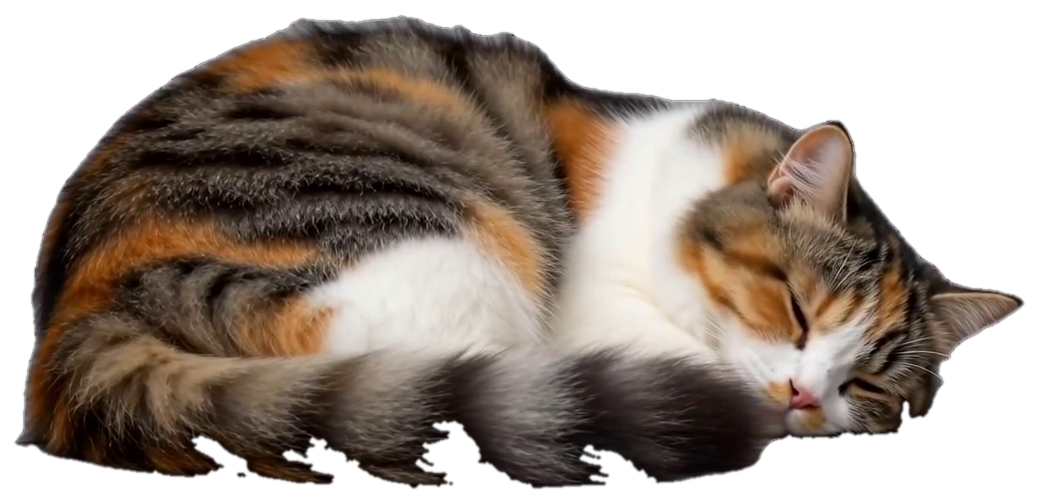
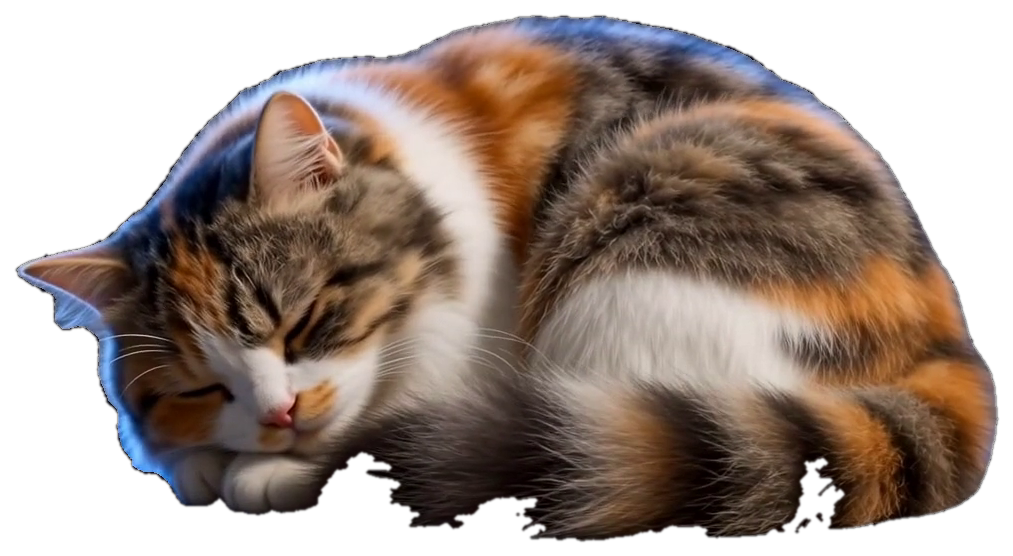
feat(about-cat): v6 stylized 3D calico with hover-play + scroll-scrub
New VP9+alpha clip rendered in the same designer-toy look as the hero
cat (chunky matte fur, cobalt rim light, warm key, navy shadows).

Behaviour: 3-phase state machine — armed (frozen off-screen) →
playing (rAF-driven auto walk-in, ~3.2 s) → scrub (scroll drives
currentTime). Intro uses easeInOutCubic; no native play() call so there
is no rate-pop when handing off to scrub. On touch/no-hover devices the
intro fires at 35% intersection. prefers-reduced-motion skips intro.

widthPct scaled down to 20 (was 26) to match about-section proportions.

diff --git a/components/AboutCat.tsx b/components/AboutCat.tsx
@@ -4,37 +4,41 @@ import { useEffect, useRef } from "react";
 import { asset } from "@/lib/asset";
 
 /**
- * AboutCat — transparent VP9+alpha cat overlay, scrubbed by the About section's scroll.
+ * AboutCat — transparent VP9+alpha cat overlay for the About section.
  *
- * Behaviour:
- *   • Not scrolling -> cat is FROZEN on its current frame (no autoplay, no loop).
- *   • Scroll DOWN   -> timeline advances: cat walks in from OFF-SCREEN left, yawns, curls asleep.
- *   • Scroll UP     -> timeline rewinds: cat wakes and walks back off-screen left.
+ * INTERACTION (state machine):
+ *   1. "armed"   — initial. Cat frozen on frame 0 (off-screen). Waiting for the pointer / in-view.
+ *   2. "playing" — the FIRST time the pointer enters the section (or it scrolls ~into view), the clip
+ *                  auto-advances ONCE to the end: cat walks in from the left, meows, curls up asleep.
+ *                  Driven by requestAnimationFrame (NOT native play) so it is perfectly smooth and
+ *                  consistent with the scrub phase — no playback-rate pop, no decoder stutter.
+ *   3. "scrub"   — after the intro reaches the asleep frame, scroll takes over: scrolling drives
+ *                  video.currentTime (scroll up = cat wakes & walks back). Frozen when idle.
  *
- * Assets (in public/video/, resolved through asset()):
- *   • cat-sleep.webm        — VP9+alpha, all-keyframe, hero-scale, off-screen entrance (v4).
- *   • cat-sleep-poster.png  — tight transparent crop, first paint.
+ * Assets (public/video/, via asset()):
+ *   • cat-sleep.webm        — VP9+alpha, all-keyframe (walk-in → meow → sleep).
+ *   • cat-sleep-poster.png  — transparent first-paint poster.
  *
- * Placement is bottom-left, in the About left-column negative space, below the copy/tags.
- * Mount inside the About <section> (which must be position:relative).
+ * Mount inside the About <section> (position:relative). pointer-events:none — never blocks UI.
  */
 
 interface AboutCatProps {
-  /** Horizontal centre of the cat, % of the section width. */
   leftPct?: number;
-  /** Cat's bottom edge above the section bottom, %. */
   bottomPct?: number;
-  /** Cat width, % of section width. Default is hero-scale. */
+  /** Cat width, % of section width. Scaled down from hero size. */
   widthPct?: number;
   /** Scrub smoothing factor 0..1 (higher = snappier). */
   ease?: number;
+  /** Intro duration in seconds (how long the auto walk-in→sleep takes). */
+  introSeconds?: number;
 }
 
 export default function AboutCat({
   leftPct = 18,
   bottomPct = 4,
-  widthPct = 26,
+  widthPct = 20,
   ease = 0.14,
+  introSeconds = 3.2,
 }: AboutCatProps) {
   const wrapRef = useRef<HTMLDivElement | null>(null);
   const videoRef = useRef<HTMLVideoElement | null>(null);
@@ -44,30 +48,73 @@ export default function AboutCat({
     const video = videoRef.current;
     if (!wrap || !video) return;
 
-    // Measure scroll against the nearest positioned ancestor (the About <section>).
     const section =
       (wrap.offsetParent as HTMLElement | null) ?? wrap.parentElement;
+    if (!section) return;
     const reduce = window.matchMedia("(prefers-reduced-motion: reduce)").matches;
 
     let ready = false;
-    let target = 0;
-    let current = 0;
+    let phase: "armed" | "playing" | "scrub" = "armed";
+    let target = 0; // scrub target time
+    let current = 0; // smoothed applied time
     let raf: number | null = null;
+    let introStart = 0;
 
-    const tick = () => {
-      current += (target - current) * ease;
-      const done = Math.abs(target - current) <= 0.004;
-      if (done) current = target;
+    const setTime = (t: number) => {
       try {
-        video.currentTime = current;
+        video.currentTime = t;
       } catch {
         /* seeking before metadata — ignore */
       }
-      raf = done ? null : requestAnimationFrame(tick);
+    };
+
+    // ---- phase 2: rAF intro (smooth auto walk-in → sleep) ----
+    const introTick = (now: number) => {
+      if (phase !== "playing") return;
+      if (!introStart) introStart = now;
+      const dur = video.duration || 10;
+      const k = Math.min((now - introStart) / 1000 / introSeconds, 1);
+      // easeInOutCubic for a natural settle
+      const eased =
+        k < 0.5 ? 4 * k * k * k : 1 - Math.pow(-2 * k + 2, 3) / 2;
+      current = eased * dur;
+      setTime(current);
+      if (k < 1) {
+        raf = requestAnimationFrame(introTick);
+      } else {
+        // hand off to scroll control, seeded at the asleep frame
+        phase = "scrub";
+        current = target = dur;
+        raf = null;
+        onScroll();
+      }
+    };
+
+    const startIntro = () => {
+      if (!ready || phase !== "armed") return;
+      phase = "playing";
+      introStart = 0;
+      if (reduce) {
+        // reduced-motion: skip the intro, settle straight to asleep then allow scrub
+        phase = "scrub";
+        current = target = video.duration || 10;
+        setTime(current);
+        return;
+      }
+      raf = requestAnimationFrame(introTick);
+    };
+
+    // ---- phase 3: scroll-driven scrubbing ----
+    const scrubTick = () => {
+      current += (target - current) * ease;
+      const done = Math.abs(target - current) <= 0.004;
+      if (done) current = target;
+      setTime(current);
+      raf = done ? null : requestAnimationFrame(scrubTick);
     };
 
     const onScroll = () => {
-      if (!ready || !video.duration || !section) return;
+      if (!ready || phase !== "scrub" || !video.duration) return;
       const rect = section.getBoundingClientRect();
       const total = rect.height + window.innerHeight;
       const seen = window.innerHeight - rect.top;
@@ -75,37 +122,49 @@ export default function AboutCat({
       target = p * video.duration;
       if (reduce) {
         current = target;
-        try {
-          video.currentTime = current;
-        } catch {
-          /* ignore */
-        }
+        setTime(current);
         return;
       }
-      if (raf === null) raf = requestAnimationFrame(tick);
+      if (raf === null) raf = requestAnimationFrame(scrubTick);
     };
 
+    const onPointerEnter = () => startIntro();
+
+    let io: IntersectionObserver | null = null;
+    if (typeof IntersectionObserver !== "undefined") {
+      io = new IntersectionObserver(
+        (entries) => {
+          for (const e of entries) {
+            if (e.isIntersecting && e.intersectionRatio > 0.35) startIntro();
+          }
+        },
+        { threshold: [0, 0.35, 0.6] }
+      );
+      io.observe(section);
+    }
+
     const onReady = () => {
-      // Handle both cold and cached loads (readyState >= 1 == HAVE_METADATA).
       if (video.readyState < 1) return;
       ready = true;
       video.pause();
-      video.currentTime = 0;
-      onScroll();
+      setTime(0);
     };
 
     video.addEventListener("loadedmetadata", onReady);
     if (video.readyState >= 1) onReady();
+    section.addEventListener("pointerenter", onPointerEnter);
     window.addEventListener("scroll", onScroll, { passive: true });
     window.addEventListener("resize", onScroll);
 
     return () => {
       video.removeEventListener("loadedmetadata", onReady);
+      section.removeEventListener("pointerenter", onPointerEnter);
       window.removeEventListener("scroll", onScroll);
       window.removeEventListener("resize", onScroll);
+      if (io) io.disconnect();
       if (raf !== null) cancelAnimationFrame(raf);
     };
-  }, [ease]);
+  }, [ease, introSeconds]);
 
   return (
     <div